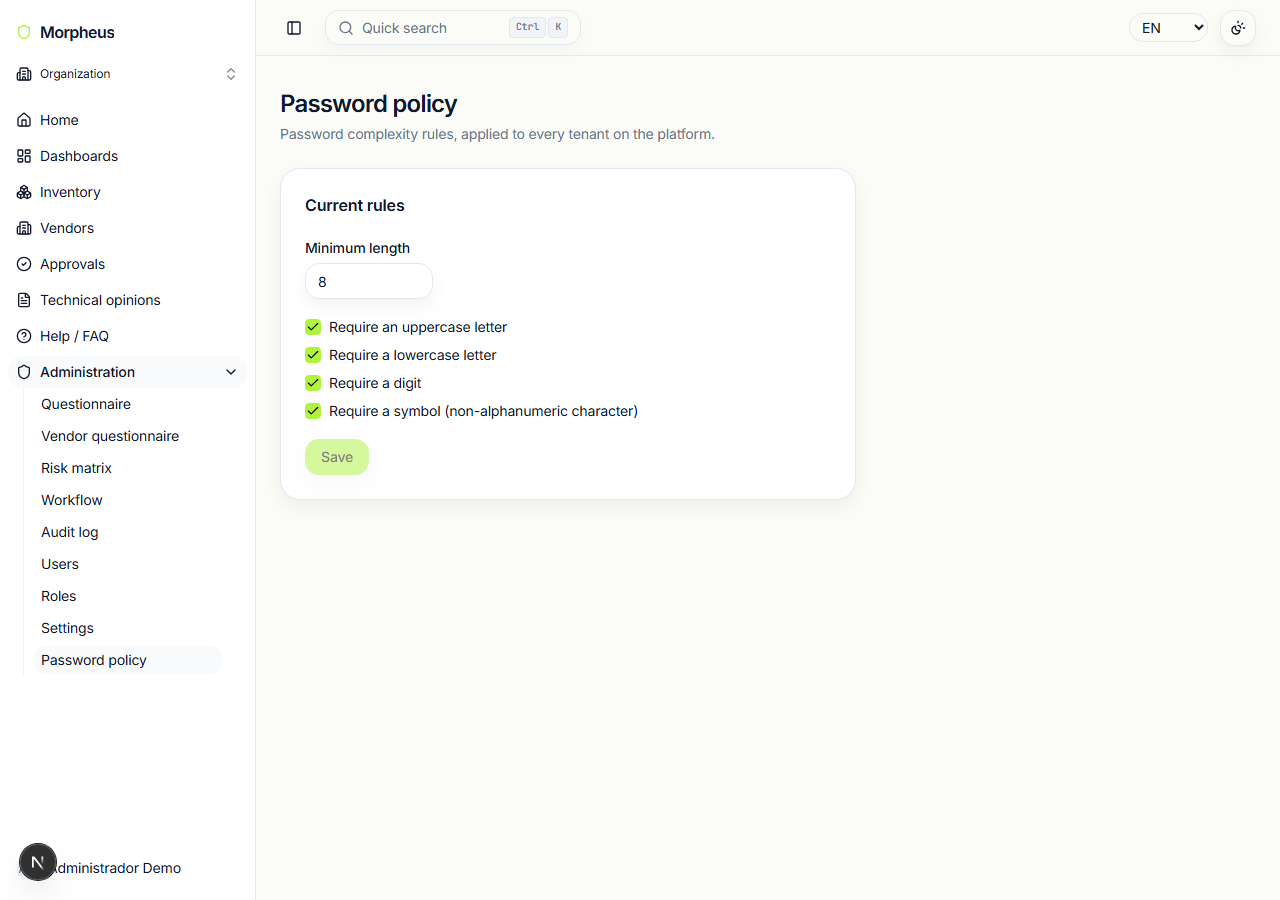
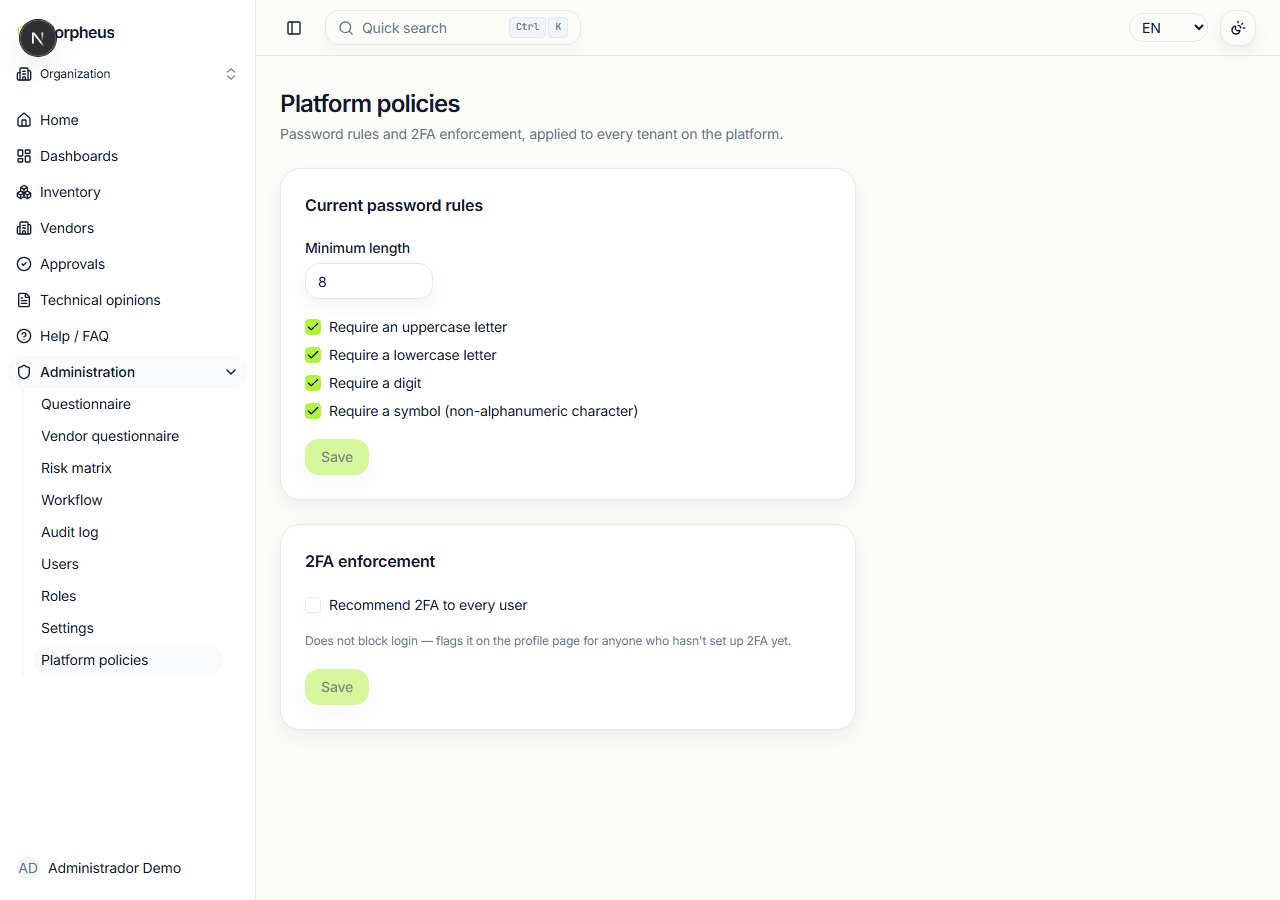
docs(2fa): Fase 8 - portfólio (screenshots + README)
10 screenshots novos/recapturados (5 assuntos x PT-BR/EN), todos com secret
TOTP descartável (gerado, fotografado, desativado). README ganha bullet de
2FA na seção de segurança + reorganização da tabela de screenshots. Fecha
o arco completo do backlog "Autenticação" item 4 (Fases 1-8).

diff --git a/README.md b/README.md
@@ -73,6 +73,11 @@ avaliado ou está com reavaliação vencida/próxima.
   AND/OR de permissões - `apps/api/src/common/decorators`, `common/guards`.
 - **Autenticação**: JWT de acesso curto + refresh token via cookie httpOnly, SSO via SAML
   genérico/plugável (login local convive com SSO, nunca exclusivo).
+- **2FA via TOTP (RFC 6238)**, autoatendimento completo (QR code, códigos de backup de uso único,
+  desativação/regeneração com reautenticação) - implementação própria sobre `node:crypto`, sem
+  dependência de terceiros. Toggle de recomendação por plataforma inteira, e revisão de segurança
+  dedicada encontrou e corrigiu um bypass real (login via SSO ignorava o segundo fator) antes de ir
+  ao ar.
 - **Política de senha configurável, plataforma inteira**: tamanho mínimo e classes de caractere
   exigidas (maiúscula/minúscula/dígito/símbolo) definidos por super-admin em `/admin/platform-policy`
   e aplicados a todo tenant - autoatendimento de troca de senha e reset administrativo reusam a
@@ -124,9 +129,17 @@ Processo completo (camadas de risco, histórico de cada janela) em
 | --- |
 | ![Administração - papéis](./docs/screenshots/admin-papeis.png) |
 
-| Política de senha (super-admin) | Meu perfil (autoatendimento) |
+| Meu perfil (autoatendimento) | Ativando o 2FA |
 | --- | --- |
-| ![Política de senha](./docs/screenshots/admin-platform-policy.png) | ![Meu perfil](./docs/screenshots/profile.png) |
+| ![Meu perfil](./docs/screenshots/profile.png) | ![Ativando o 2FA](./docs/screenshots/profile-2fa-setup.png) |
+
+| Códigos de backup do 2FA | Login - código de verificação |
+| --- | --- |
+| ![Códigos de backup do 2FA](./docs/screenshots/profile-2fa-backup-codes.png) | ![Login - código de verificação](./docs/screenshots/login-2fa.png) |
+
+| Políticas de plataforma (super-admin) |
+| --- |
+| ![Políticas de plataforma](./docs/screenshots/admin-platform-policy.png) |
 
 ## Stack
 
@@ -135,7 +148,7 @@ Processo completo (camadas de risco, histórico de cada janela) em
 | Backend         | Node.js, TypeScript, NestJS 11                                          |
 | Frontend        | Next.js 16 (App Router), React 19, TailwindCSS 4, shadcn/ui              |
 | Banco de dados  | PostgreSQL 16, Prisma ORM 7                                              |
-| Autenticação    | JWT + Refresh Token, SSO via SAML genérico/plugável                     |
+| Autenticação    | JWT + Refresh Token, SSO via SAML genérico/plugável, 2FA (TOTP)         |
 | Observabilidade | Logs estruturados (pino), Correlation ID, métricas Prometheus, OpenTelemetry |
 | Containerização | Docker, Docker Compose                                                   |
 | IaC             | Terraform (deploy AWS documentado - nunca aplicado contra conta real)   |
@@ -256,6 +269,10 @@ overdue/upcoming reassessment.
   permission composition - `apps/api/src/common/decorators`, `common/guards`.
 - **Authentication**: short-lived access JWT + refresh token via httpOnly cookie, SSO via generic/
   pluggable SAML (local login coexists with SSO, never exclusive).
+- **2FA via TOTP (RFC 6238)**, full self-service (QR code, single-use backup codes, disable/regenerate
+  with reauthentication) - own implementation on top of `node:crypto`, no third-party dependency.
+  Platform-wide recommendation toggle, and a dedicated security review found and fixed a real bypass
+  (SSO login skipped the second factor) before it shipped.
 - **Platform-wide, configurable password policy**: minimum length and required character classes
   (uppercase/lowercase/digit/symbol) set by a super-admin at `/admin/platform-policy` and enforced
   for every tenant - self-service password change and admin-triggered resets reuse the same
@@ -306,9 +323,17 @@ Full process (risk tiers, per-window history) in [`docs/security.md`](./docs/sec
 | --- |
 | ![Admin - roles](./docs/screenshots/admin-papeis-en.png) |
 
-| Password policy (super-admin) | My profile (self-service) |
+| My profile (self-service) | Setting up 2FA |
 | --- | --- |
-| ![Password policy](./docs/screenshots/admin-platform-policy-en.png) | ![My profile](./docs/screenshots/profile-en.png) |
+| ![My profile](./docs/screenshots/profile-en.png) | ![Setting up 2FA](./docs/screenshots/profile-2fa-setup-en.png) |
+
+| 2FA backup codes | Login - verification code |
+| --- | --- |
+| ![2FA backup codes](./docs/screenshots/profile-2fa-backup-codes-en.png) | ![Login - verification code](./docs/screenshots/login-2fa-en.png) |
+
+| Platform policies (super-admin) |
+| --- |
+| ![Platform policies](./docs/screenshots/admin-platform-policy-en.png) |
 
 ## Stack
 
@@ -317,7 +342,7 @@ Full process (risk tiers, per-window history) in [`docs/security.md`](./docs/sec
 | Backend          | Node.js, TypeScript, NestJS 11                                             |
 | Frontend         | Next.js 16 (App Router), React 19, TailwindCSS 4, shadcn/ui                 |
 | Database         | PostgreSQL 16, Prisma ORM 7                                                 |
-| Authentication   | JWT + Refresh Token, generic/pluggable SAML SSO                            |
+| Authentication   | JWT + Refresh Token, generic/pluggable SAML SSO, 2FA (TOTP)                |
 | Observability    | Structured logs (pino), Correlation ID, Prometheus metrics, OpenTelemetry   |
 | Containerization | Docker, Docker Compose                                                     |
 | IaC              | Terraform (AWS deploy documented - never applied against a real account)   |

diff --git a/docs/changelog/2026-08.md b/docs/changelog/2026-08.md
@@ -433,3 +433,35 @@ ver [`../CHANGELOG.md`](../CHANGELOG.md) para o índice completo.
     (`req.user.totpEnabled` populado corretamente via `findOrProvisionBySso`, mesmo objeto usado por
     `POST /auth/login`) e pelos testes existentes de `UsersService`/`TwoFactorService`, não por um
     teste end-to-end do fluxo SAML - registrado explicitamente, não deixado implícito.
+- **2FA (TOTP, RFC 6238), Fase 8 (2026-08-02): portfólio.** Fecha o arco inteiro (Fases 1-7, backlog
+  "Autenticação" item 4 - passwordless segue como próximo item, adiado).
+  - 10 screenshots (5 assuntos × PT-BR+EN), todos com um secret TOTP **descartável** gerado só para a
+    captura - habilitado, fotografado, e desativado logo em seguida (nunca o segredo real de uma
+    conta viva, mesma disciplina já usada pra dado de teste em toda fase anterior):
+    `profile.png`/-en (re-captura, agora com o 4º card "Autenticação em duas etapas" em estado
+    "Ativado"), `profile-2fa-setup.png`/-en (QR + código manual + campo de confirmação),
+    `profile-2fa-backup-codes.png`/-en (os 10 códigos exibidos uma única vez), `login-2fa.png`/-en
+    (passo de código no login), `admin-platform-policy.png`/-en (re-captura, agora com a seção
+    "Exigência de 2FA" ao lado da política de senha).
+  - **Gotcha real encontrado durante a captura, não relacionado ao código do 2FA**: as duas primeiras
+    tentativas de `admin-platform-policy.png`/-en vieram como 404 - investigação confirmou que era o
+    servidor de dev do Next.js (Turbopack) com o manifesto de rotas desatualizado depois de um
+    `git checkout -b` com o servidor já rodando (a troca de branch mexeu nos arquivos sob os pés do
+    watcher sem forçar recompilação). **Usuário reproduziu o mesmo sintoma de forma independente**
+    batendo em várias telas admin ao mesmo tempo - não foi um problema isolado do script. Confirmado
+    e fechado testando 12 rotas via curl antes/depois de reiniciar o servidor (todas 404→200 de forma
+    consistente); recapturados só os 2 screenshots afetados depois do restart, o resto já estava
+    correto. Nenhuma mudança de código - achado de ambiente/tooling, registrado aqui como precedente
+    (reiniciar o dev server depois de trocar de branch com ele já rodando, não só depois de `git pull`).
+  - `README.md` (PT-BR+EN): novo bullet "2FA via TOTP (RFC 6238)" na seção de controles de segurança
+    (menciona a implementação própria sem dependência de terceiros e o bypass real encontrado/
+    corrigido na Fase 7 - portfólio existe pra mostrar rigor, não só funcionalidade). Linha
+    "Autenticação" da tabela de Stack ganha "2FA (TOTP)". Tabela de screenshots reorganizada: a linha
+    antiga "Política de senha / Meu perfil" virou 3 linhas novas (`Meu perfil` + `Ativando o 2FA`,
+    `Códigos de backup` + `Login - código`, `Políticas de plataforma` sozinha) - sem perder nenhuma
+    imagem já referenciada, só reagrupando em torno do assunto novo.
+  - **Testes**: cada um dos 10 screenshots revisado individualmente (aberto e olhado, não só
+    capturado e commitado às cegas) - confirmado QR code renderiza, backup codes aparecem em grade
+    legível, badges/estados corretos nas duas línguas, nenhuma chave i18n crua, nenhum segredo real
+    vazado. `git grep` confirma que nenhum outro arquivo do repo referenciava as legendas antigas da
+    tabela de screenshots antes de trocá-las.
